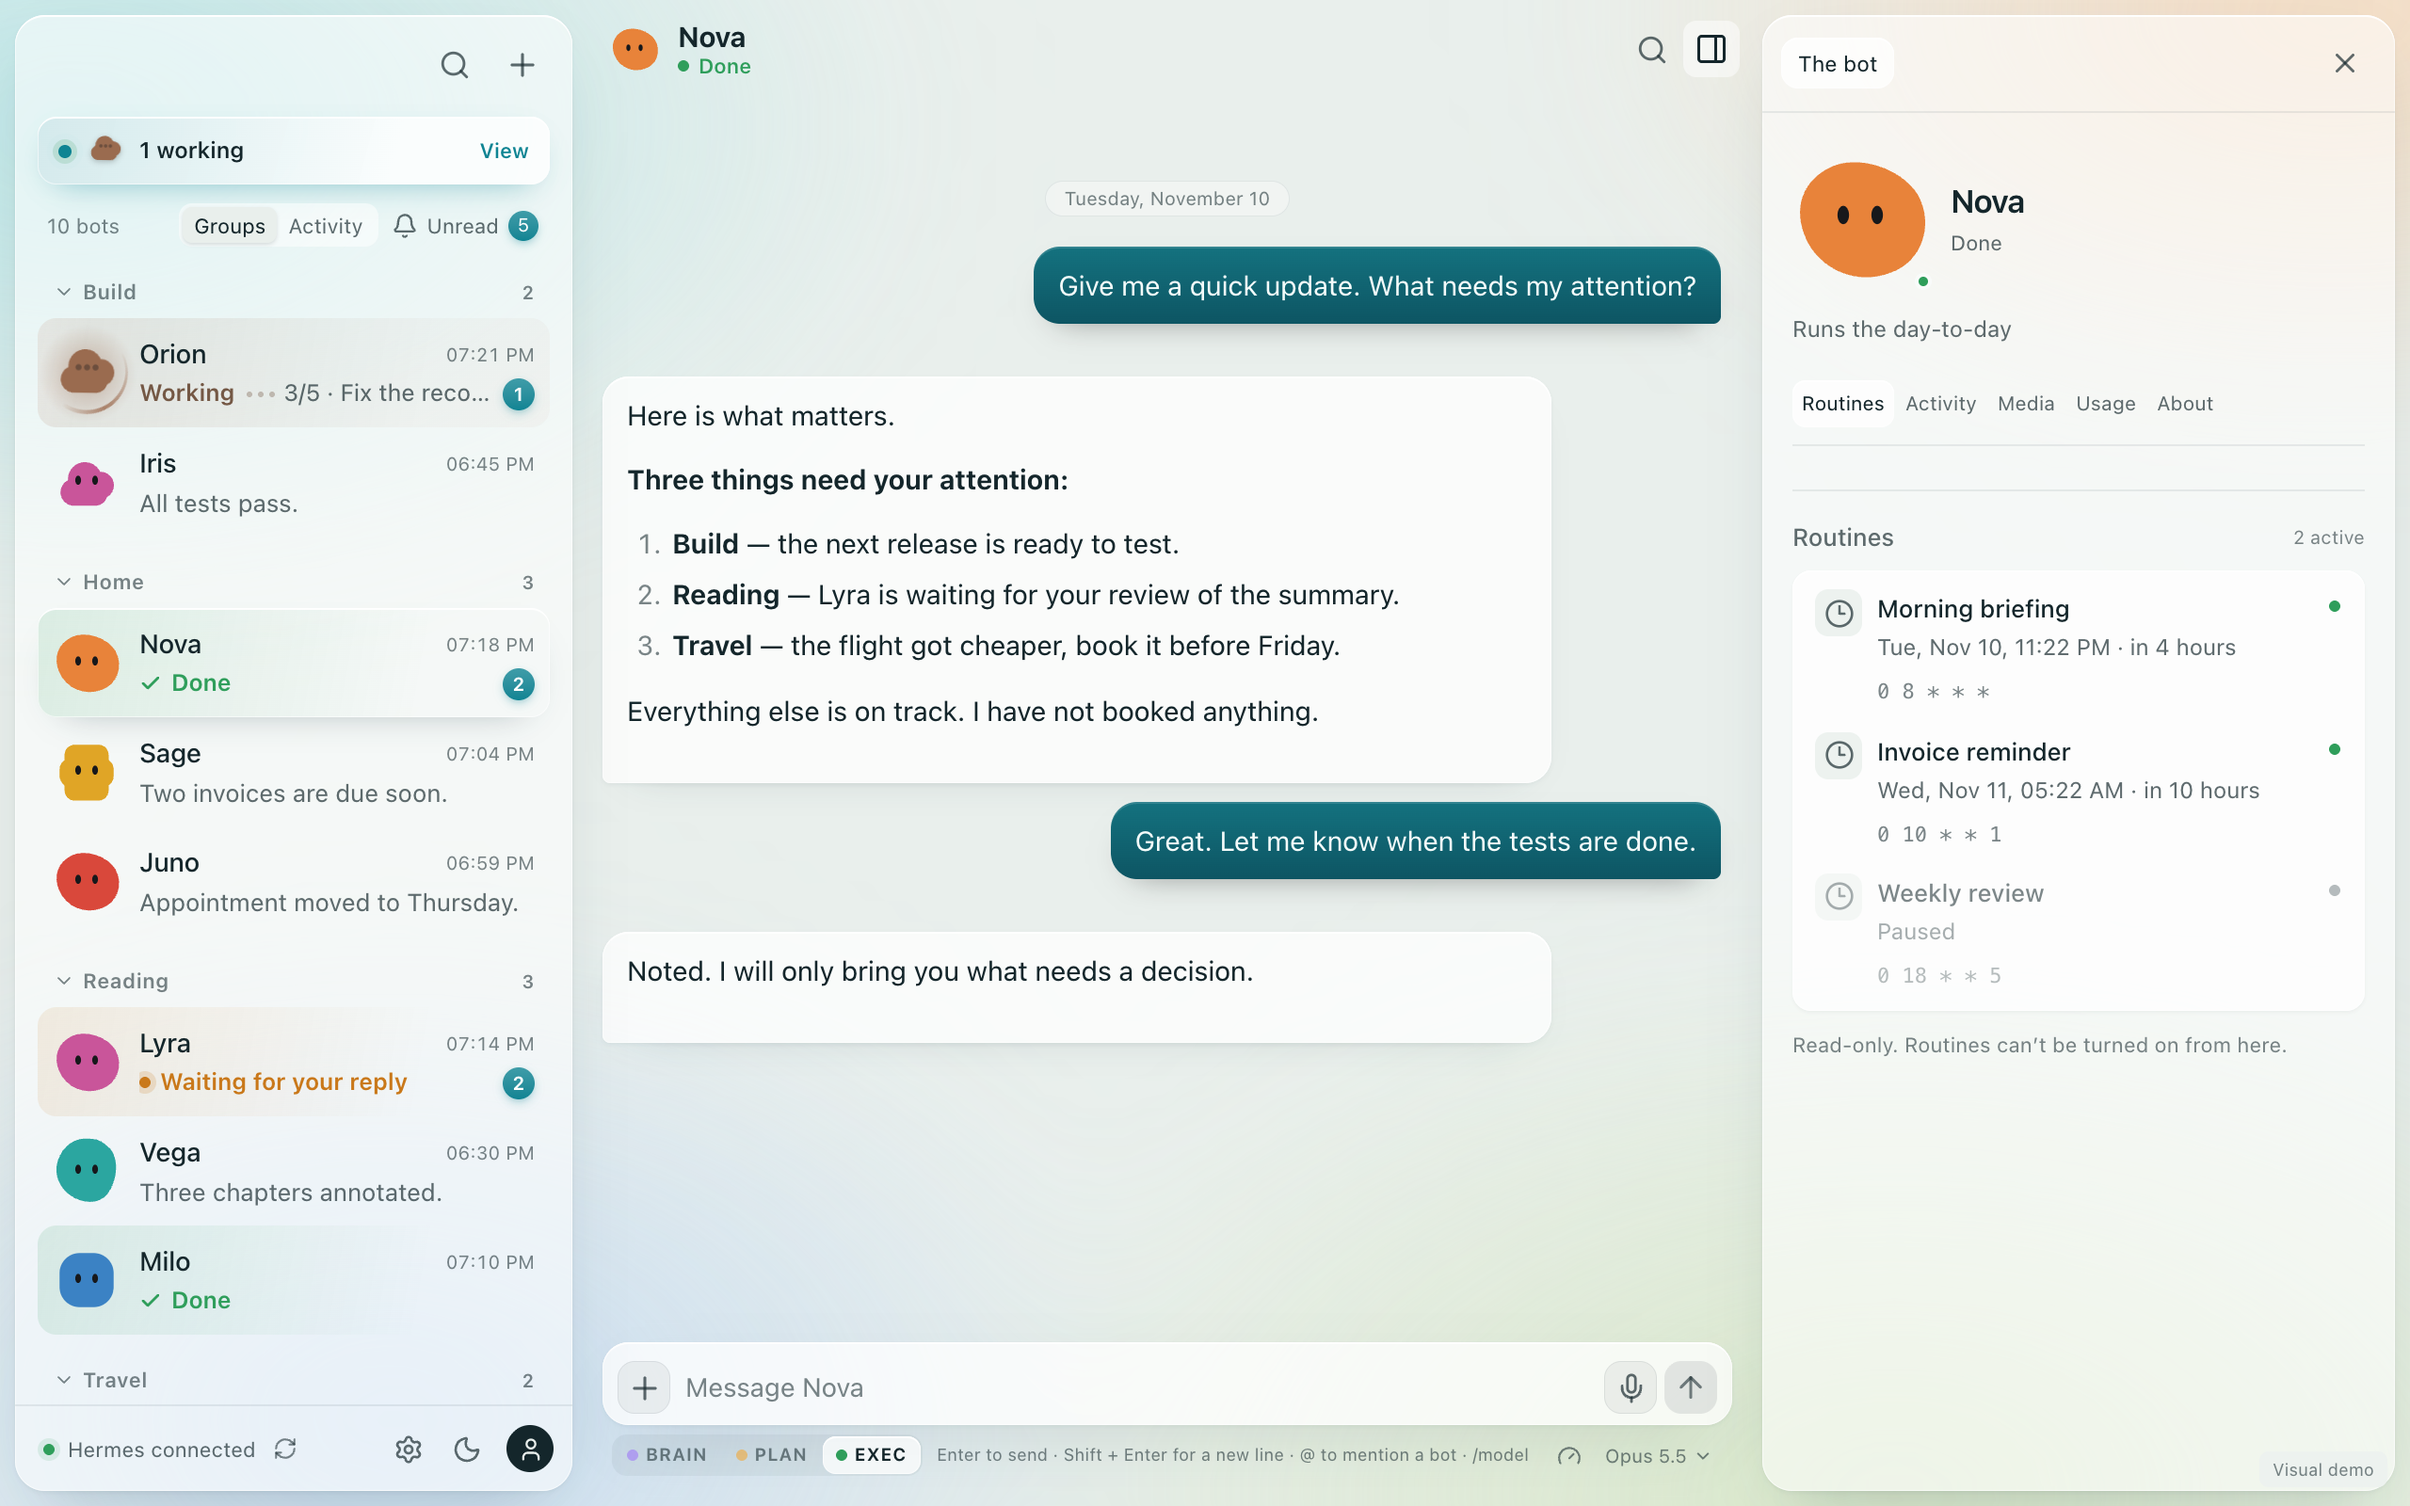
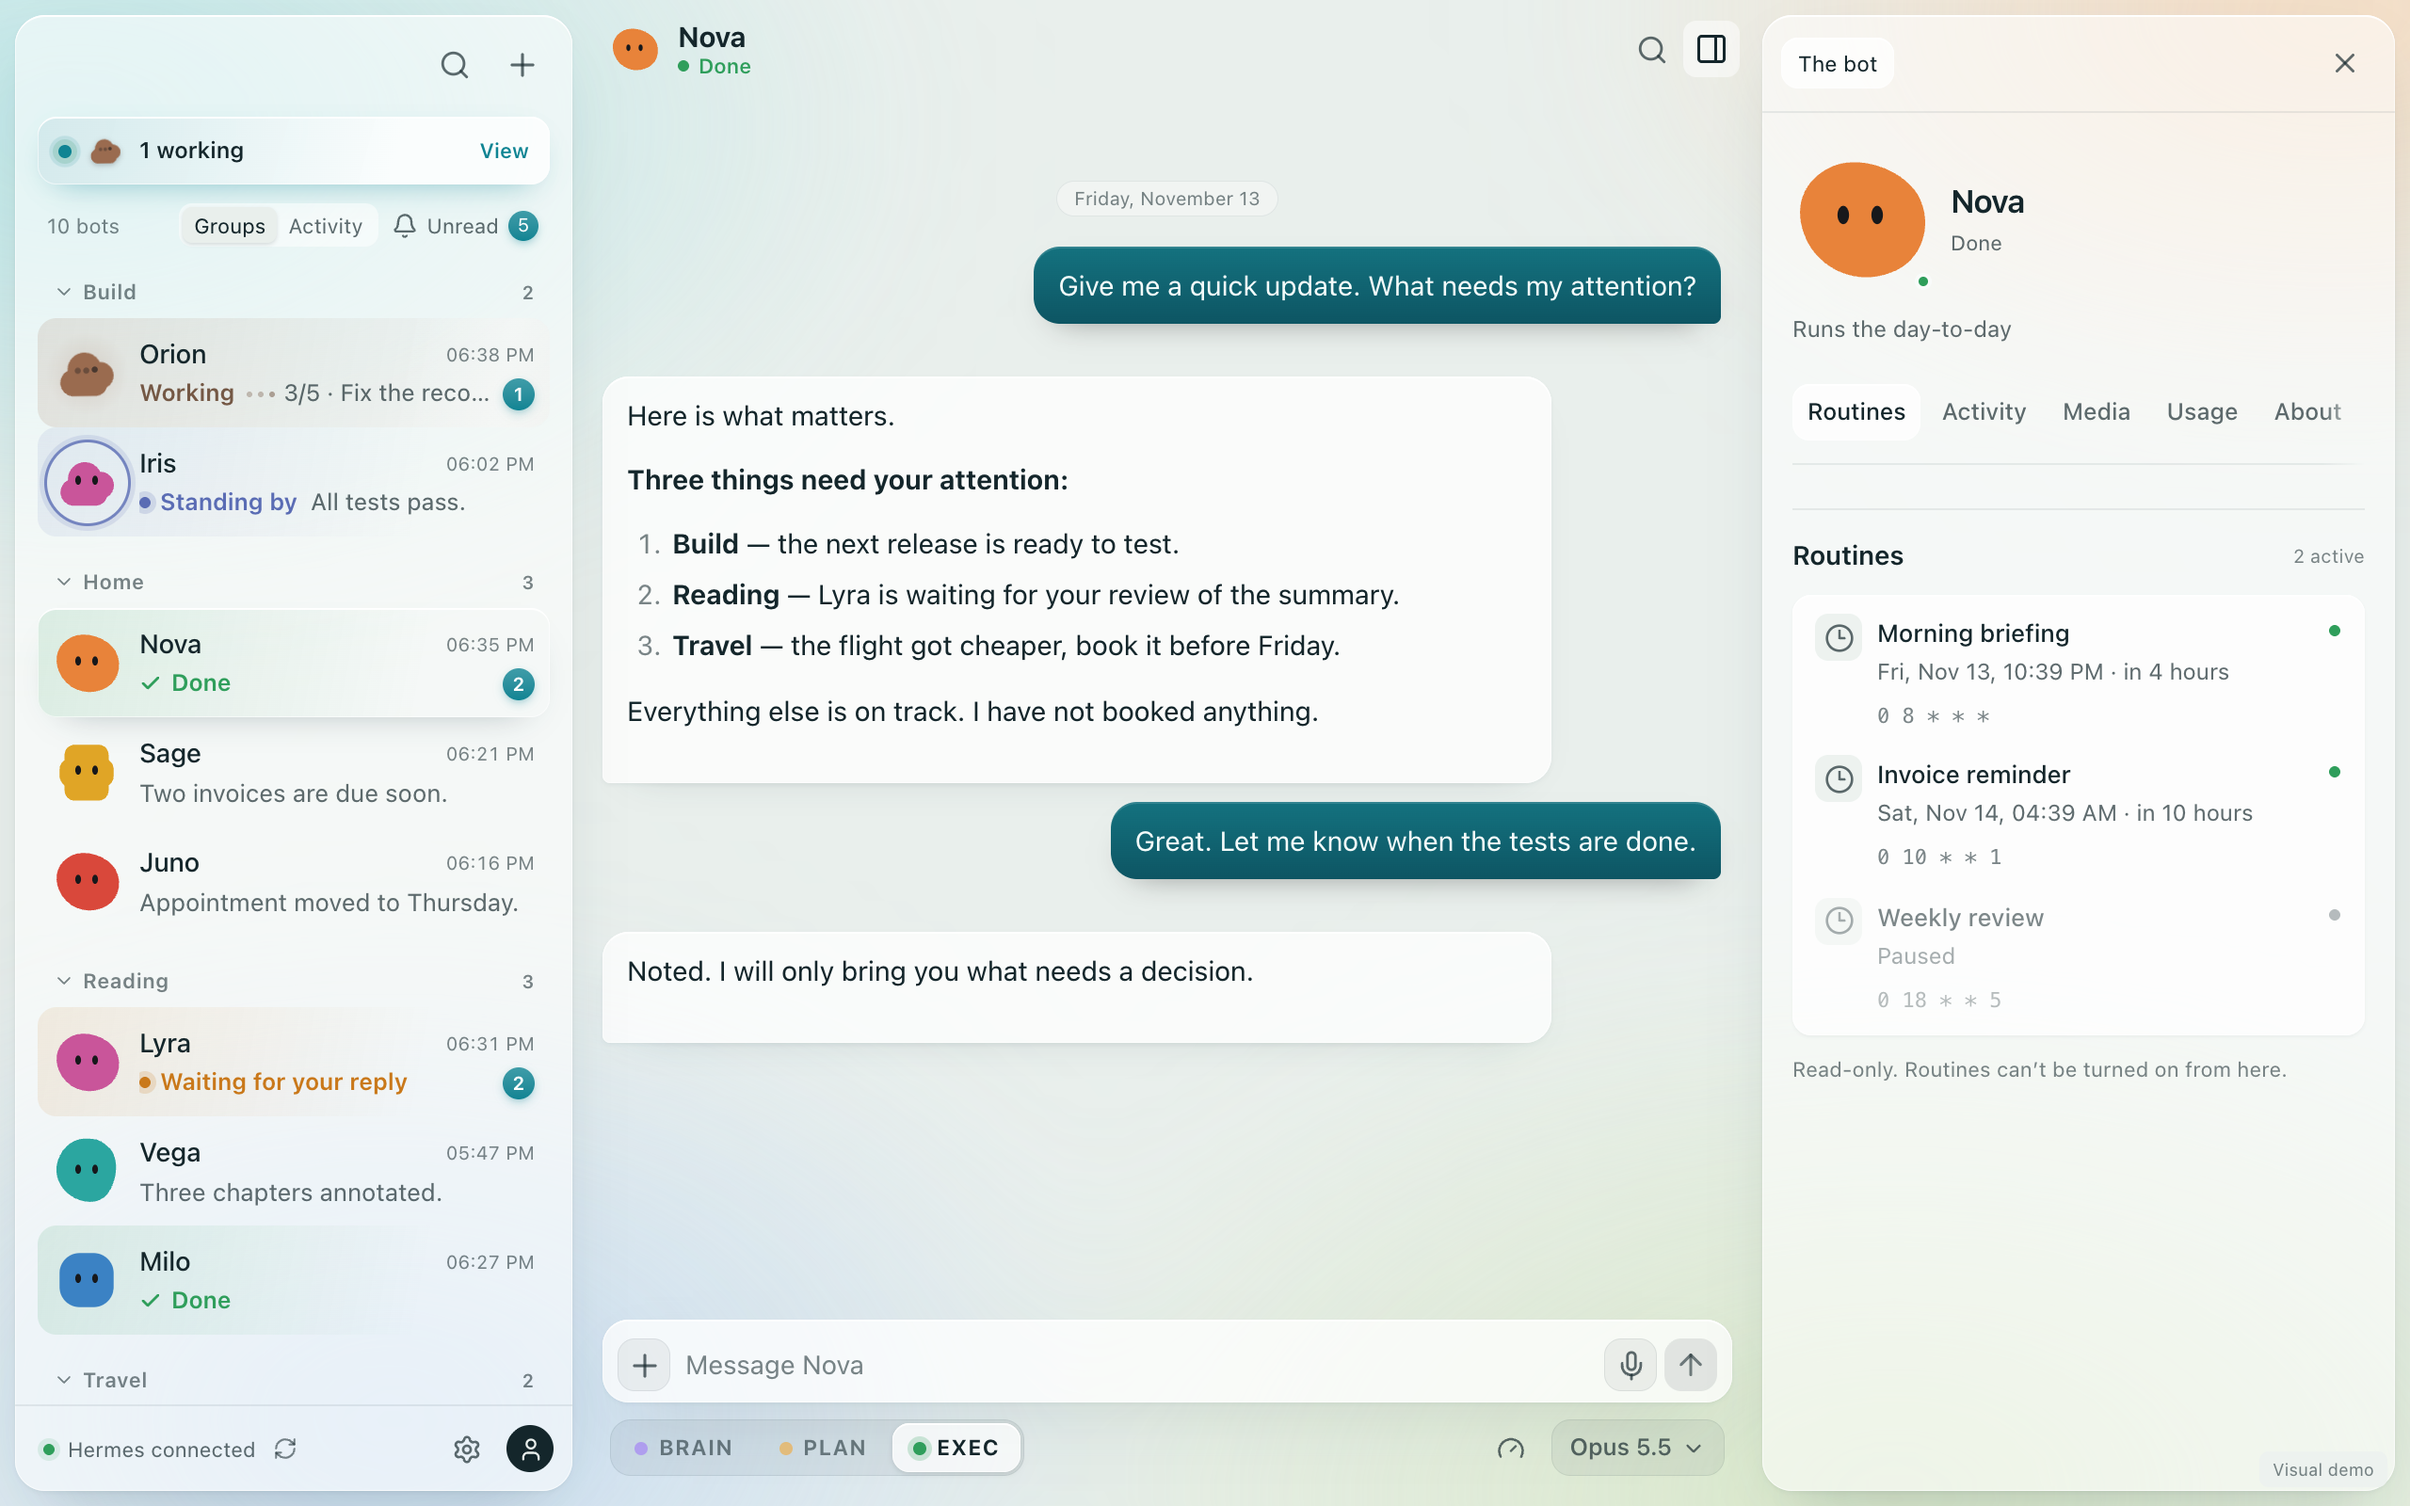
README: fresh demo screenshots of the new UI, light and dark
Adds scripts/readme-screenshots.mjs (npm run screenshots) and a grid of views in "One window".

diff --git a/README.md b/README.md
@@ -48,7 +48,45 @@ Then open http://127.0.0.1:4330/?demo=1. The demo runs on fictional data and mak
 
 ## One window
 
-![HermesBot in demo mode: a roster of bots by group, a chat, and the routines of the open bot](docs/screenshot.png)
+<picture>
+  <source media="(prefers-color-scheme: dark)" srcset="docs/readme/ui-overview-dark.png" />
+  <img src="docs/readme/ui-overview-light.png" alt="HermesBot in demo mode: a roster of bots by group, a chat, and the routines of the open bot" />
+</picture>
+
+<table>
+  <tr>
+    <td width="50%" valign="top">
+      <picture>
+        <source media="(prefers-color-scheme: dark)" srcset="docs/readme/ui-palette-dark.png" />
+        <img src="docs/readme/ui-palette-light.png" alt="The command palette: go to any bot by typing its name" />
+      </picture>
+      <br /><b>Go anywhere.</b> ⌘K opens any bot by its name.
+    </td>
+    <td width="50%" valign="top">
+      <picture>
+        <source media="(prefers-color-scheme: dark)" srcset="docs/readme/ui-activity-dark.png" />
+        <img src="docs/readme/ui-activity-light.png" alt="The roster sorted by activity, with what each bot last did" />
+      </picture>
+      <br /><b>Sort by activity.</b> The bots that just moved come first, with one line on what they did.
+    </td>
+  </tr>
+  <tr>
+    <td width="50%" valign="top">
+      <picture>
+        <source media="(prefers-color-scheme: dark)" srcset="docs/readme/ui-bot-menu-dark.png" />
+        <img src="docs/readme/ui-bot-menu-light.png" alt="The menu of a bot: pin, move to a group, mark as read, rename, hide" />
+      </picture>
+      <br /><b>Arrange your team.</b> Pin a bot, move it to a group, rename it or hide it.
+    </td>
+    <td width="50%" valign="top">
+      <picture>
+        <source media="(prefers-color-scheme: dark)" srcset="docs/readme/ui-settings-dark.png" />
+        <img src="docs/readme/ui-settings-light.png" alt="Settings, General tab: language, theme, text size, notifications" />
+      </picture>
+      <br /><b>Light or dark, English or French.</b> Text size, animations and notifications in Settings.
+    </td>
+  </tr>
+</table>
 
 <table>
   <tr>
